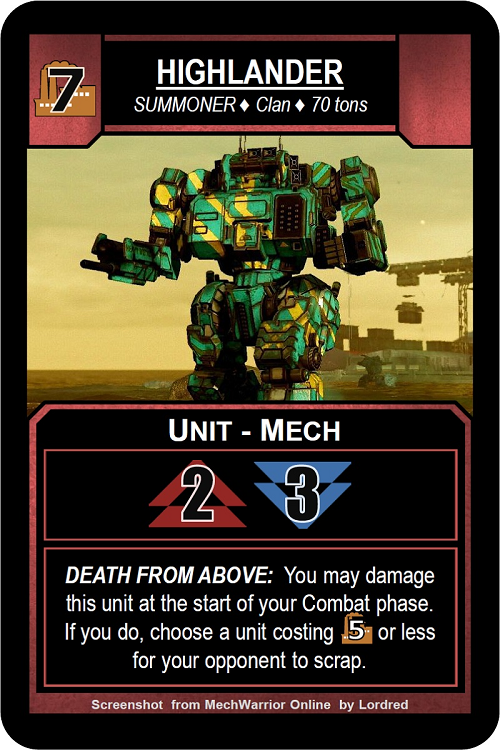
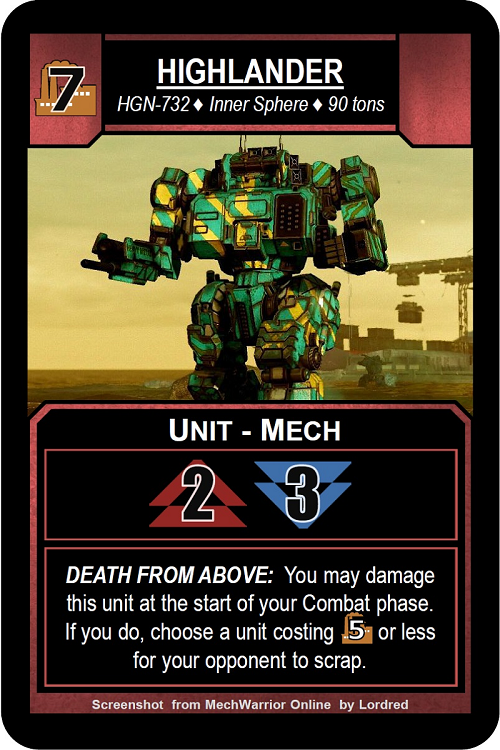
add images, update cards

diff --git a/src/main/java/org/smartreaction/battletechdomination/model/cards/abilities/unit/LaserBarrage.java b/src/main/java/org/smartreaction/battletechdomination/model/cards/abilities/unit/LaserBarrage.java
@@ -6,7 +6,7 @@ import org.smartreaction.battletechdomination.model.cards.Unit;
 import org.smartreaction.battletechdomination.model.players.Player;
 
 public class LaserBarrage extends UnitAbility {
-    //LASER BARRAGE: At the start of your Combat phase, reveal the top card of your deck. If it is a... Resource card, X = 3; Unit card, X = 5; Otherwise, shuffle this unit into your deck.
+    //LASER BARRAGE: At the start of your Combat phase, reveal the top card of your deck. If it is a Unit card, +2 Attack.
 
     public LaserBarrage(Unit unit) {
         super(unit);
@@ -16,16 +16,9 @@ public class LaserBarrage extends UnitAbility {
     public void useAbility(Player player) {
         Card card = player.revealTopCardOfDeck();
         if (card != null) {
-            if (card.isResource()) {
-                player.addGameLog(player.getPlayerName() + "'s " + unit.getName() + " has 3 Attack.");
-                unit.setBonusAttack(3);
-            } else if (card.isUnit()) {
-                player.addGameLog(player.getPlayerName() + "'s " + unit.getName() + " has 5 Attack.");
-                unit.setBonusAttack(5);
-            } else {
-                player.addGameLog(player.getPlayerName() + " shuffled " + unit.getName() + " back into their deck");
-                player.getDeploymentZone().remove(unit);
-                player.shuffleCardIntoDeck(unit);
+            if (card.isUnit()) {
+                player.addGameLog(player.getPlayerName() + "'s " + unit.getName() + " gains +2 Attack.");
+                unit.setBonusAttack(2);
             }
         }
     }

diff --git a/src/main/java/org/smartreaction/battletechdomination/model/cards/unit/mech/ManOWar.java b/src/main/java/org/smartreaction/battletechdomination/model/cards/unit/mech/ManOWar.java
@@ -3,14 +3,15 @@ package org.smartreaction.battletechdomination.model.cards.unit.mech;
 import org.smartreaction.battletechdomination.model.cards.MechUnit;
 import org.smartreaction.battletechdomination.model.cards.abilities.unit.FastAssault;
 
-public class Gargoyle extends MechUnit implements FastAssault {
-    public Gargoyle() {
-        name = "Gargoyle";
-        subName = "MAN-O'-WAR";
+public class ManOWar extends MechUnit implements FastAssault {
+    public ManOWar() {
+        name = "ManOWar";
+        subName = "GARGOYLE";
         cardText = "FAST ASSAULT: This unit cannot be damaged unless your opponent has a unit costing 6 Industry or more in his deployment zone.";
         attack = 3;
         defense = 2;
         industryCost = 5;
         losTechCost = 1;
+        imageFile = "ManOWar.png";
     }
 }

diff --git a/src/main/java/org/smartreaction/battletechdomination/model/cards/unit/mech/BlackHawk.java b/src/main/java/org/smartreaction/battletechdomination/model/cards/unit/mech/BlackHawk.java
@@ -7,11 +7,12 @@ public class BlackHawk extends MechUnit {
     public BlackHawk() {
         name = "Black Hawk";
         subName = "NOVA";
-        cardText = "LASER BARRAGE: At the start of your Combat phase, reveal the top card of your deck. If it is a... Resource card, X = 3; Unit card, X = 5; Otherwise, shuffle this unit into your deck.";
-        attack = 0;
+        cardText = "LASER BARRAGE: At the start of your Combat phase, reveal the top card of your deck. If it is a Unit card, +2 Attack.";
+        attack = 3;
         defense = 1;
         industryCost = 4;
         losTechCost = 1;
+        imageFile = "BlackHawk.png";
 
         addAbility(new LaserBarrage(this));
     }

diff --git a/src/main/java/org/smartreaction/battletechdomination/model/cards/unit/mech/Highlander.java b/src/main/java/org/smartreaction/battletechdomination/model/cards/unit/mech/Highlander.java
@@ -7,7 +7,7 @@ public class Highlander extends MechUnit {
     public Highlander() {
         name = "Highlander";
         subName = "HGN-732";
-        cardText = "HIGHLANDER BURIAL: You may damage this unit at the start of your Combat phase. If you do, choose an opposing unit costing 5 Industry or less for your opponent to scrap.";
+        cardText = "HIGHLANDER BURIAL: You may damage this unit at the start of your Combat phase. If you do, choose a unit costing 5 Industry or less for your opponent to scrap.";
         attack = 2;
         defense = 3;
         industryCost = 7;

diff --git a/src/main/java/org/smartreaction/battletechdomination/service/GameService.java b/src/main/java/org/smartreaction/battletechdomination/service/GameService.java
@@ -383,7 +383,7 @@ public class GameService {
 
         cards.add(new Dragon());
 
-        cards.add(new Gargoyle());
+        cards.add(new ManOWar());
 
         return cards;
     }
@@ -636,8 +636,8 @@ public class GameService {
                 return new Crab();
             case "dragon":
                 return new Dragon();
-            case "gargoyle":
-                return new Gargoyle();
+            case "manowar":
+                return new ManOWar();
 
             default:
                 return null;

diff --git a/src/main/java/org/smartreaction/battletechdomination/model/cards/unit/mech/JagerMech.java b/src/main/java/org/smartreaction/battletechdomination/model/cards/unit/mech/JagerMech.java
@@ -9,8 +9,9 @@ public class JagerMech extends MechUnit {
         subName = "JM6-A";
         cardText = "SUPPRESSIVE FIRE: +1 Attack if you have more Mechs in your deployment zone than your opponent has in his.";
         attack = 1;
-        defense = 3;
+        defense = 2;
         industryCost = 5;
+        imageFile = "JagerMech.png";
 
         addAbility(new SuppressiveFire(this));
     }

diff --git a/src/main/java/org/smartreaction/battletechdomination/model/cards/unit/mech/Wolverine.java b/src/main/java/org/smartreaction/battletechdomination/model/cards/unit/mech/Wolverine.java
@@ -8,9 +8,10 @@ public class Wolverine extends MechUnit {
         name = "Wolverine";
         subName = "WVR-7D";
         cardText = "BRAWLER: When this unit is damaged, your opponent must damage a unit.";
-        attack = 1;
+        attack = 2;
         defense = 2;
         industryCost = 4;
+        imageFile = "Wolverine.png";
 
         addAbility(new Brawler(this));
     }

diff --git a/src/main/java/org/smartreaction/battletechdomination/model/cards/unit/vehicle/SturmfeurLRMTank.java b/src/main/java/org/smartreaction/battletechdomination/model/cards/unit/vehicle/SturmfeurLRMTank.java
@@ -11,6 +11,7 @@ public class SturmfeurLRMTank extends VehicleUnit {
         attack = 1;
         defense = 0;
         industryCost = 2;
+        imageFile = "SturmFeur.png";
 
         addAbility(new LRMFireSupport(this));
         addAbility(new Tank(this));

diff --git a/src/main/java/org/smartreaction/battletechdomination/model/cards/unit/mech/Fenris.java b/src/main/java/org/smartreaction/battletechdomination/model/cards/unit/mech/Fenris.java
@@ -13,6 +13,7 @@ public class Fenris extends MechUnit implements ActiveProbe {
         defense = 1;
         industryCost = 4;
         losTechCost = 1;
+        imageFile = "Fenris.png";
 
         addAbility(new VeryFast(this));
     }

diff --git a/src/main/java/org/smartreaction/battletechdomination/model/cards/unit/mech/Locust.java b/src/main/java/org/smartreaction/battletechdomination/model/cards/unit/mech/Locust.java
@@ -12,6 +12,7 @@ public class Locust extends MechUnit implements Spotter {
         attack = 0;
         defense = 0;
         industryCost = 0;
+        imageFile = "Locust.png";
 
         addAbility(new Mobile(this));
     }

diff --git a/src/main/java/org/smartreaction/battletechdomination/model/cards/unit/mech/Crab.java b/src/main/java/org/smartreaction/battletechdomination/model/cards/unit/mech/Crab.java
@@ -11,6 +11,7 @@ public class Crab extends MechUnit {
         attack = 1;
         defense = 1;
         industryCost = 4;
+        imageFile = "Crab.png";
 
         addAbility(new AdvancedCommSystem(this));
     }

diff --git a/src/main/java/org/smartreaction/battletechdomination/model/cards/unit/mech/Dragon.java b/src/main/java/org/smartreaction/battletechdomination/model/cards/unit/mech/Dragon.java
@@ -11,6 +11,7 @@ public class Dragon extends MechUnit {
         attack = 1;
         defense = 2;
         industryCost = 5;
+        imageFile = "Dragon.png";
 
         addAbility(new MobileHeavy(this));
     }
